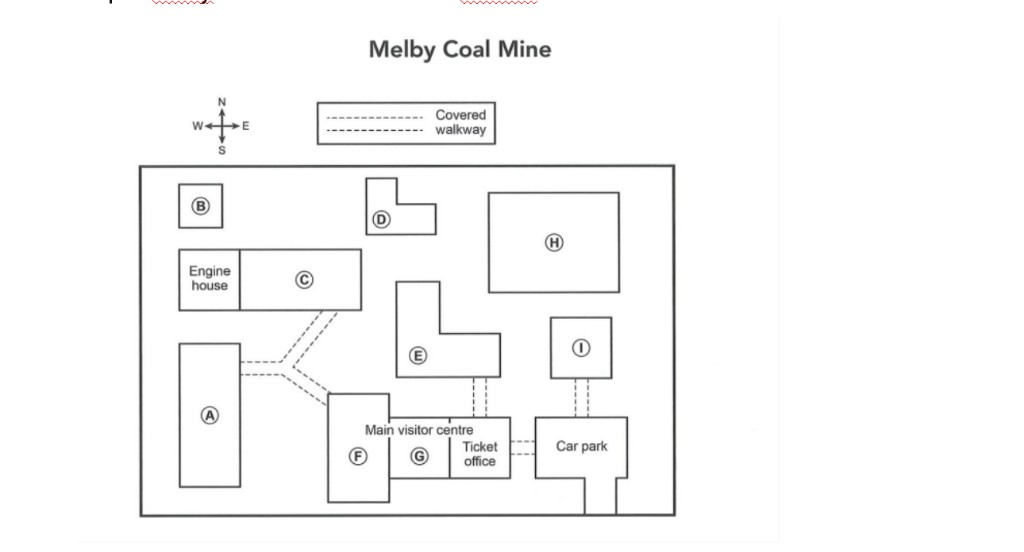
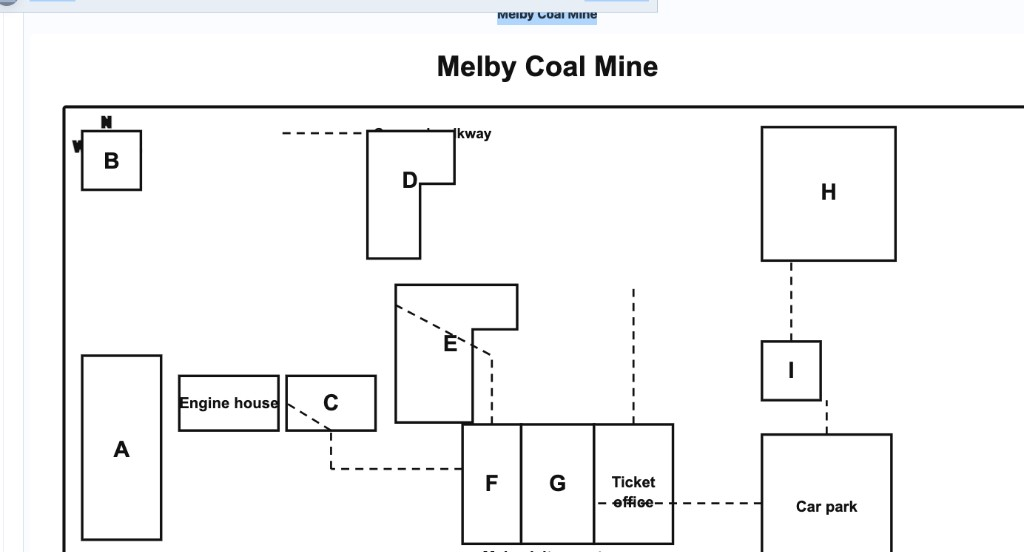
fix(cambridge-21): deploy listening corrections from teacher review
Use official Melby Coal Mine map PNG, flowchart layout for T2P3, form
blank rendering for T4P1, and bump CONTENT_VER so CDT iframes pick up
the updated mock pages on production.

diff --git a/library/mock/cambridge-listening/cambridge-21-test-4.html b/library/mock/cambridge-listening/cambridge-21-test-4.html
@@ -135,6 +135,14 @@
   .map-wrap { border:1px solid #d8e0ea; border-radius:10px; background:#fafcff; padding:14px 16px; margin-bottom:16px; text-align:center; }
   .map-img { max-width:100%; height:auto; border-radius:8px; }
   .map-missing { color:#8a6d1b; background:#fff7e0; border:1px dashed #e0c879; border-radius:8px; padding:18px; font-size:14px; }
+  .flowchart { max-width:440px; margin:0 auto 14px; }
+  .fc-title { font-weight:700; text-align:center; margin:0 0 14px; font-size:16px; color:#223; }
+  .fc-step { display:flex; flex-direction:column; align-items:center; }
+  .fc-box { border:1.5px solid #223; border-radius:2px; padding:12px 16px 10px; width:100%; text-align:center; background:#fff; }
+  .fc-label { font-weight:700; margin-bottom:6px; font-size:15px; }
+  .fc-gap { justify-content:center; margin:0; gap:8px; }
+  .fc-gap .mq-txt { display:none; }
+  .fc-arrow { font-size:18px; line-height:1; margin:2px 0 6px; color:#223; }
 
   .submit-btn { display:block; width:100%; background:linear-gradient(135deg,#1e8449,#27ae60); color:#fff; border:none; padding:16px; font-size:19px; border-radius:12px; cursor:pointer; margin-top:28px; font-weight:700; box-shadow:0 4px 14px rgba(39,174,96,.3); }
   .submit-btn:hover { transform:translateY(-2px); }
@@ -292,7 +300,7 @@ const TEST = {
     "volume": 21,
     "testNo": 4
   },
-  "durationMin": 32,
+  "durationMin": 30,
   "sections": [
     {
       "id": 1,
@@ -315,11 +323,11 @@ const TEST = {
               "html": "used his <Q n=\"2\">"
             },
             {
-              "bullet": true,
-              "html": "has visited the <Q n=\"3\">"
+              "h": "Purpose of today's trip:"
             },
             {
-              "h": "Purpose of today's trip:"
+              "bullet": true,
+              "html": "has visited the <Q n=\"3\">"
             },
             {
               "bullet": true,
@@ -929,7 +937,7 @@ function groupHtml(g){
   if(g.kind==='note'){
     body=`<div class="note-box">${g.noteTitle?`<div class="note-title">${g.noteTitle}</div>`:''}`+
       g.lines.map(l=>{
-        if(l.h) return `<div class="note-h">${l.h}</div>`;
+        if(l.h) return `<div class="note-h">${expandQ(l.h)}</div>`;
         if(l.plain) return `<div class="note-li${l.sub?' sub':''}">${expandQ(l.html)}</div>`;
         if(l.html==null) return '';
         const cls='note-li'+(l.sub2?' sub2':(l.sub?' sub':''));
@@ -951,7 +959,17 @@ function groupHtml(g){
   else if(g.kind==='match'){
     const box=`<div class="match-box"><div class="mb-h">${g.boxTitle}</div>${Object.entries(g.box).map(([k,v])=>`<div class="mb-row"><strong>${k}</strong><span>${v}</span></div>`).join('')}</div>`;
     const sel=`<select id="REP"><option value="">—</option>${Object.keys(g.box).map(k=>`<option value="${k}">${k}</option>`).join('')}</select>`;
-    const qs=`<div style="font-weight:700;margin:6px 0 8px;">${g.subTitle}</div>`+g.questions.map(q=>`<div class="match-q"><span class="qnum-badge">${q.no}</span><span class="mq-txt">${q.q}</span>${sel.replace('REP',q.id)}</div>`).join('');
+    const isFlow=/flowchart/i.test(g.instruction||'');
+    let qs;
+    if(isFlow){
+      const steps=g.questions.map((q,i)=>{
+        const arrow=i<g.questions.length-1?`<div class="fc-arrow">↓</div>`:'';
+        return `<div class="fc-step"><div class="fc-box"><div class="fc-label">${q.q}</div><div class="match-q fc-gap"><span class="qnum-badge">${q.no}</span><span class="mq-txt">${q.q}</span>${sel.replace('REP',q.id)}</div></div>${arrow}</div>`;
+      }).join('');
+      qs=`<div class="flowchart">${g.subTitle?`<div class="fc-title">${g.subTitle}</div>`:''}${steps}</div>`;
+    } else {
+      qs=`<div style="font-weight:700;margin:6px 0 8px;">${g.subTitle}</div>`+g.questions.map(q=>`<div class="match-q"><span class="qnum-badge">${q.no}</span><span class="mq-txt">${q.q}</span>${sel.replace('REP',q.id)}</div>`).join('');
+    }
     body=box+qs;
   }
   else if(g.kind==='multi'){

diff --git a/library/mock/cambridge-listening/cambridge-21-test-2.html b/library/mock/cambridge-listening/cambridge-21-test-2.html
@@ -136,6 +136,14 @@
   .map-img { display:block; width:100%; max-width:920px; height:auto; margin:0 auto; border-radius:8px; cursor:zoom-in; }
   .map-wrap.is-zoom .map-img { cursor:zoom-out; max-width:none; width:min(1400px, 96vw); }
   .map-missing { color:#8a6d1b; background:#fff7e0; border:1px dashed #e0c879; border-radius:8px; padding:18px; font-size:14px; }
+  .flowchart { max-width:440px; margin:0 auto 14px; }
+  .fc-title { font-weight:700; text-align:center; margin:0 0 14px; font-size:16px; color:#223; }
+  .fc-step { display:flex; flex-direction:column; align-items:center; }
+  .fc-box { border:1.5px solid #223; border-radius:2px; padding:12px 16px 10px; width:100%; text-align:center; background:#fff; }
+  .fc-label { font-weight:700; margin-bottom:6px; font-size:15px; }
+  .fc-gap { justify-content:center; margin:0; gap:8px; }
+  .fc-gap .mq-txt { display:none; }
+  .fc-arrow { font-size:18px; line-height:1; margin:2px 0 6px; color:#223; }
 
   .submit-btn { display:block; width:100%; background:linear-gradient(135deg,#1e8449,#27ae60); color:#fff; border:none; padding:16px; font-size:19px; border-radius:12px; cursor:pointer; margin-top:28px; font-weight:700; box-shadow:0 4px 14px rgba(39,174,96,.3); }
   .submit-btn:hover { transform:translateY(-2px); }
@@ -293,7 +301,7 @@ const TEST = {
     "volume": 21,
     "testNo": 2
   },
-  "durationMin": 32,
+  "durationMin": 30,
   "sections": [
     {
       "id": 1,
@@ -501,7 +509,7 @@ const TEST = {
           "title": "Questions 15–20",
           "instruction": "Label the map below.<br>Write the correct letter, A–I, next to Questions 15–20.",
           "mapTitle": "Melby Coal Mine",
-          "image": "cambridge-21-test-2-map.svg",
+          "image": "cambridge-21-test-2-map.png",
           "letters": [
             "A",
             "B",
@@ -939,7 +947,7 @@ function groupHtml(g){
   if(g.kind==='note'){
     body=`<div class="note-box">${g.noteTitle?`<div class="note-title">${g.noteTitle}</div>`:''}`+
       g.lines.map(l=>{
-        if(l.h) return `<div class="note-h">${l.h}</div>`;
+        if(l.h) return `<div class="note-h">${expandQ(l.h)}</div>`;
         if(l.plain) return `<div class="note-li${l.sub?' sub':''}">${expandQ(l.html)}</div>`;
         if(l.html==null) return '';
         const cls='note-li'+(l.sub2?' sub2':(l.sub?' sub':''));
@@ -961,7 +969,17 @@ function groupHtml(g){
   else if(g.kind==='match'){
     const box=`<div class="match-box"><div class="mb-h">${g.boxTitle}</div>${Object.entries(g.box).map(([k,v])=>`<div class="mb-row"><strong>${k}</strong><span>${v}</span></div>`).join('')}</div>`;
     const sel=`<select id="REP"><option value="">—</option>${Object.keys(g.box).map(k=>`<option value="${k}">${k}</option>`).join('')}</select>`;
-    const qs=`<div style="font-weight:700;margin:6px 0 8px;">${g.subTitle}</div>`+g.questions.map(q=>`<div class="match-q"><span class="qnum-badge">${q.no}</span><span class="mq-txt">${q.q}</span>${sel.replace('REP',q.id)}</div>`).join('');
+    const isFlow=/flowchart/i.test(g.instruction||'');
+    let qs;
+    if(isFlow){
+      const steps=g.questions.map((q,i)=>{
+        const arrow=i<g.questions.length-1?`<div class="fc-arrow">↓</div>`:'';
+        return `<div class="fc-step"><div class="fc-box"><div class="fc-label">${q.q}</div><div class="match-q fc-gap"><span class="qnum-badge">${q.no}</span><span class="mq-txt">${q.q}</span>${sel.replace('REP',q.id)}</div></div>${arrow}</div>`;
+      }).join('');
+      qs=`<div class="flowchart">${g.subTitle?`<div class="fc-title">${g.subTitle}</div>`:''}${steps}</div>`;
+    } else {
+      qs=`<div style="font-weight:700;margin:6px 0 8px;">${g.subTitle}</div>`+g.questions.map(q=>`<div class="match-q"><span class="qnum-badge">${q.no}</span><span class="mq-txt">${q.q}</span>${sel.replace('REP',q.id)}</div>`).join('');
+    }
     body=box+qs;
   }
   else if(g.kind==='multi'){

diff --git a/library/mock/cambridge-listening/cambridge-21-test-1.html b/library/mock/cambridge-listening/cambridge-21-test-1.html
@@ -133,6 +133,14 @@
   .map-wrap { border:1px solid #d8e0ea; border-radius:10px; background:#fafcff; padding:14px 16px; margin-bottom:16px; text-align:center; }
   .map-img { max-width:100%; height:auto; border-radius:8px; }
   .map-missing { color:#8a6d1b; background:#fff7e0; border:1px dashed #e0c879; border-radius:8px; padding:18px; font-size:14px; }
+  .flowchart { max-width:440px; margin:0 auto 14px; }
+  .fc-title { font-weight:700; text-align:center; margin:0 0 14px; font-size:16px; color:#223; }
+  .fc-step { display:flex; flex-direction:column; align-items:center; }
+  .fc-box { border:1.5px solid #223; border-radius:2px; padding:12px 16px 10px; width:100%; text-align:center; background:#fff; }
+  .fc-label { font-weight:700; margin-bottom:6px; font-size:15px; }
+  .fc-gap { justify-content:center; margin:0; gap:8px; }
+  .fc-gap .mq-txt { display:none; }
+  .fc-arrow { font-size:18px; line-height:1; margin:2px 0 6px; color:#223; }
 
   .submit-btn { display:block; width:100%; background:linear-gradient(135deg,#1e8449,#27ae60); color:#fff; border:none; padding:16px; font-size:19px; border-radius:12px; cursor:pointer; margin-top:28px; font-weight:700; box-shadow:0 4px 14px rgba(39,174,96,.3); }
   .submit-btn:hover { transform:translateY(-2px); }
@@ -290,7 +298,7 @@ const TEST = {
     "volume": 21,
     "testNo": 1
   },
-  "durationMin": 32,
+  "durationMin": 30,
   "sections": [
     {
       "id": 1,
@@ -973,7 +981,7 @@ function groupHtml(g){
   if(g.kind==='note'){
     body=`<div class="note-box">${g.noteTitle?`<div class="note-title">${g.noteTitle}</div>`:''}`+
       g.lines.map(l=>{
-        if(l.h) return `<div class="note-h">${l.h}</div>`;
+        if(l.h) return `<div class="note-h">${expandQ(l.h)}</div>`;
         if(l.plain) return `<div class="note-li${l.sub?' sub':''}">${expandQ(l.html)}</div>`;
         if(l.html==null) return '';
         const cls='note-li'+(l.sub2?' sub2':(l.sub?' sub':''));
@@ -995,7 +1003,17 @@ function groupHtml(g){
   else if(g.kind==='match'){
     const box=`<div class="match-box"><div class="mb-h">${g.boxTitle}</div>${Object.entries(g.box).map(([k,v])=>`<div class="mb-row"><strong>${k}</strong><span>${v}</span></div>`).join('')}</div>`;
     const sel=`<select id="REP"><option value="">—</option>${Object.keys(g.box).map(k=>`<option value="${k}">${k}</option>`).join('')}</select>`;
-    const qs=`<div style="font-weight:700;margin:6px 0 8px;">${g.subTitle}</div>`+g.questions.map(q=>`<div class="match-q"><span class="qnum-badge">${q.no}</span><span class="mq-txt">${q.q}</span>${sel.replace('REP',q.id)}</div>`).join('');
+    const isFlow=/flowchart/i.test(g.instruction||'');
+    let qs;
+    if(isFlow){
+      const steps=g.questions.map((q,i)=>{
+        const arrow=i<g.questions.length-1?`<div class="fc-arrow">↓</div>`:'';
+        return `<div class="fc-step"><div class="fc-box"><div class="fc-label">${q.q}</div><div class="match-q fc-gap"><span class="qnum-badge">${q.no}</span><span class="mq-txt">${q.q}</span>${sel.replace('REP',q.id)}</div></div>${arrow}</div>`;
+      }).join('');
+      qs=`<div class="flowchart">${g.subTitle?`<div class="fc-title">${g.subTitle}</div>`:''}${steps}</div>`;
+    } else {
+      qs=`<div style="font-weight:700;margin:6px 0 8px;">${g.subTitle}</div>`+g.questions.map(q=>`<div class="match-q"><span class="qnum-badge">${q.no}</span><span class="mq-txt">${q.q}</span>${sel.replace('REP',q.id)}</div>`).join('');
+    }
     body=box+qs;
   }
   else if(g.kind==='multi'){

diff --git a/library/mock/cambridge-listening/cambridge-21-test-3.html b/library/mock/cambridge-listening/cambridge-21-test-3.html
@@ -135,6 +135,14 @@
   .map-wrap { border:1px solid #d8e0ea; border-radius:10px; background:#fafcff; padding:14px 16px; margin-bottom:16px; text-align:center; }
   .map-img { max-width:100%; height:auto; border-radius:8px; }
   .map-missing { color:#8a6d1b; background:#fff7e0; border:1px dashed #e0c879; border-radius:8px; padding:18px; font-size:14px; }
+  .flowchart { max-width:440px; margin:0 auto 14px; }
+  .fc-title { font-weight:700; text-align:center; margin:0 0 14px; font-size:16px; color:#223; }
+  .fc-step { display:flex; flex-direction:column; align-items:center; }
+  .fc-box { border:1.5px solid #223; border-radius:2px; padding:12px 16px 10px; width:100%; text-align:center; background:#fff; }
+  .fc-label { font-weight:700; margin-bottom:6px; font-size:15px; }
+  .fc-gap { justify-content:center; margin:0; gap:8px; }
+  .fc-gap .mq-txt { display:none; }
+  .fc-arrow { font-size:18px; line-height:1; margin:2px 0 6px; color:#223; }
 
   .submit-btn { display:block; width:100%; background:linear-gradient(135deg,#1e8449,#27ae60); color:#fff; border:none; padding:16px; font-size:19px; border-radius:12px; cursor:pointer; margin-top:28px; font-weight:700; box-shadow:0 4px 14px rgba(39,174,96,.3); }
   .submit-btn:hover { transform:translateY(-2px); }
@@ -292,7 +300,7 @@ const TEST = {
     "volume": 21,
     "testNo": 3
   },
-  "durationMin": 32,
+  "durationMin": 30,
   "sections": [
     {
       "id": 1,
@@ -970,7 +978,7 @@ function groupHtml(g){
   if(g.kind==='note'){
     body=`<div class="note-box">${g.noteTitle?`<div class="note-title">${g.noteTitle}</div>`:''}`+
       g.lines.map(l=>{
-        if(l.h) return `<div class="note-h">${l.h}</div>`;
+        if(l.h) return `<div class="note-h">${expandQ(l.h)}</div>`;
         if(l.plain) return `<div class="note-li${l.sub?' sub':''}">${expandQ(l.html)}</div>`;
         if(l.html==null) return '';
         const cls='note-li'+(l.sub2?' sub2':(l.sub?' sub':''));
@@ -992,7 +1000,17 @@ function groupHtml(g){
   else if(g.kind==='match'){
     const box=`<div class="match-box"><div class="mb-h">${g.boxTitle}</div>${Object.entries(g.box).map(([k,v])=>`<div class="mb-row"><strong>${k}</strong><span>${v}</span></div>`).join('')}</div>`;
     const sel=`<select id="REP"><option value="">—</option>${Object.keys(g.box).map(k=>`<option value="${k}">${k}</option>`).join('')}</select>`;
-    const qs=`<div style="font-weight:700;margin:6px 0 8px;">${g.subTitle}</div>`+g.questions.map(q=>`<div class="match-q"><span class="qnum-badge">${q.no}</span><span class="mq-txt">${q.q}</span>${sel.replace('REP',q.id)}</div>`).join('');
+    const isFlow=/flowchart/i.test(g.instruction||'');
+    let qs;
+    if(isFlow){
+      const steps=g.questions.map((q,i)=>{
+        const arrow=i<g.questions.length-1?`<div class="fc-arrow">↓</div>`:'';
+        return `<div class="fc-step"><div class="fc-box"><div class="fc-label">${q.q}</div><div class="match-q fc-gap"><span class="qnum-badge">${q.no}</span><span class="mq-txt">${q.q}</span>${sel.replace('REP',q.id)}</div></div>${arrow}</div>`;
+      }).join('');
+      qs=`<div class="flowchart">${g.subTitle?`<div class="fc-title">${g.subTitle}</div>`:''}${steps}</div>`;
+    } else {
+      qs=`<div style="font-weight:700;margin:6px 0 8px;">${g.subTitle}</div>`+g.questions.map(q=>`<div class="match-q"><span class="qnum-badge">${q.no}</span><span class="mq-txt">${q.q}</span>${sel.replace('REP',q.id)}</div>`).join('');
+    }
     body=box+qs;
   }
   else if(g.kind==='multi'){

diff --git a/library/mock/cambridge-listening/cambridge-20-test-1.html b/library/mock/cambridge-listening/cambridge-20-test-1.html
@@ -116,6 +116,14 @@
   .map-wrap { border:1px solid #d8e0ea; border-radius:10px; background:#fafcff; padding:14px 16px; margin-bottom:16px; text-align:center; }
   .map-img { max-width:100%; height:auto; border-radius:8px; }
   .map-missing { color:#8a6d1b; background:#fff7e0; border:1px dashed #e0c879; border-radius:8px; padding:18px; font-size:14px; }
+  .flowchart { max-width:440px; margin:0 auto 14px; }
+  .fc-title { font-weight:700; text-align:center; margin:0 0 14px; font-size:16px; color:#223; }
+  .fc-step { display:flex; flex-direction:column; align-items:center; }
+  .fc-box { border:1.5px solid #223; border-radius:2px; padding:12px 16px 10px; width:100%; text-align:center; background:#fff; }
+  .fc-label { font-weight:700; margin-bottom:6px; font-size:15px; }
+  .fc-gap { justify-content:center; margin:0; gap:8px; }
+  .fc-gap .mq-txt { display:none; }
+  .fc-arrow { font-size:18px; line-height:1; margin:2px 0 6px; color:#223; }
 
   .submit-btn { display:block; width:100%; background:linear-gradient(135deg,#1e8449,#27ae60); color:#fff; border:none; padding:16px; font-size:19px; border-radius:12px; cursor:pointer; margin-top:28px; font-weight:700; box-shadow:0 4px 14px rgba(39,174,96,.3); }
   .submit-btn:hover { transform:translateY(-2px); }
@@ -454,7 +462,7 @@ function groupHtml(g){
   if(g.kind==='note'){
     body=`<div class="note-box">${g.noteTitle?`<div class="note-title">${g.noteTitle}</div>`:''}`+
       g.lines.map(l=>{
-        if(l.h) return `<div class="note-h">${l.h}</div>`;
+        if(l.h) return `<div class="note-h">${expandQ(l.h)}</div>`;
         if(l.plain) return `<div class="note-li${l.sub?' sub':''}">${expandQ(l.html)}</div>`;
         if(l.html==null) return '';
         const cls='note-li'+(l.sub2?' sub2':(l.sub?' sub':''));
@@ -476,7 +484,17 @@ function groupHtml(g){
   else if(g.kind==='match'){
     const box=`<div class="match-box"><div class="mb-h">${g.boxTitle}</div>${Object.entries(g.box).map(([k,v])=>`<div class="mb-row"><strong>${k}</strong><span>${v}</span></div>`).join('')}</div>`;
     const sel=`<select id="REP"><option value="">—</option>${Object.keys(g.box).map(k=>`<option value="${k}">${k}</option>`).join('')}</select>`;
-    const qs=`<div style="font-weight:700;margin:6px 0 8px;">${g.subTitle}</div>`+g.questions.map(q=>`<div class="match-q"><span class="qnum-badge">${q.no}</span><span class="mq-txt">${q.q}</span>${sel.replace('REP',q.id)}</div>`).join('');
+    const isFlow=/flowchart/i.test(g.instruction||'');
+    let qs;
+    if(isFlow){
+      const steps=g.questions.map((q,i)=>{
+        const arrow=i<g.questions.length-1?`<div class="fc-arrow">↓</div>`:'';
+        return `<div class="fc-step"><div class="fc-box"><div class="fc-label">${q.q}</div><div class="match-q fc-gap"><span class="qnum-badge">${q.no}</span><span class="mq-txt">${q.q}</span>${sel.replace('REP',q.id)}</div></div>${arrow}</div>`;
+      }).join('');
+      qs=`<div class="flowchart">${g.subTitle?`<div class="fc-title">${g.subTitle}</div>`:''}${steps}</div>`;
+    } else {
+      qs=`<div style="font-weight:700;margin:6px 0 8px;">${g.subTitle}</div>`+g.questions.map(q=>`<div class="match-q"><span class="qnum-badge">${q.no}</span><span class="mq-txt">${q.q}</span>${sel.replace('REP',q.id)}</div>`).join('');
+    }
     body=box+qs;
   }
   else if(g.kind==='multi'){

diff --git a/exam.html b/exam.html
@@ -239,7 +239,7 @@
   <div class="score-toast-host" id="score-toast-host" aria-live="polite"></div>
 
   <script src="assets/js/auth.js?v=20260812scores304"></script>
-  <script src="assets/js/config.js?v=20260820c21t2p2"></script>
+  <script src="assets/js/config.js?v=20260820c21fix2"></script>
   <script src="assets/js/exam-cdt.js?v=20260805p3scroll3"></script>
   <script src="assets/js/exam.js?v=20260812s5"></script>
 </body>

diff --git a/assets/js/config.js b/assets/js/config.js
@@ -6,7 +6,7 @@ window.YYSD = (function () {
   "use strict";
 
   // Bump when library HTML changes so exam iframe skips stale browser cache.
-  var CONTENT_VER = "20260820c21t2p2";
+  var CONTENT_VER = "20260820c21fix2";
   var WRONG_WORDS_KEY = "yysd:wrong-words";
   var SAVED_WORDS_KEY = "yysd:saved-words";
 

diff --git a/scripts/cambridge21_data.py b/scripts/cambridge21_data.py
@@ -369,7 +369,7 @@ _LISTENING = {1: {'meta': {'volume': 21, 'testNo': 1},
                                'instruction': 'Label the map below.<br>Write the correct letter, A–I, next to '
                                               'Questions 15–20.',
                                'mapTitle': 'Melby Coal Mine',
-                               'image': 'cambridge-21-test-2-map.svg',
+                               'image': 'cambridge-21-test-2-map.png',
                                'letters': ['A', 'B', 'C', 'D', 'E', 'F', 'G', 'H', 'I'],
                                'questions': [{'id': 'L15',
                                               'no': 15,
@@ -789,8 +789,8 @@ _LISTENING = {1: {'meta': {'volume': 21, 'testNo': 1},
                                'lines': [{'h': 'Name: Martyn <Q n="1">'},
                                          {'h': "Today's journey to Broadbeach town centre:"},
                                          {'bullet': True, 'html': 'used his <Q n="2">'},
-                                         {'bullet': True, 'html': 'has visited the <Q n="3">'},
                                          {'h': "Purpose of today's trip:"},
+                                         {'bullet': True, 'html': 'has visited the <Q n="3">'},
                                          {'bullet': True, 'html': 'looking for a new <Q n="4">'},
                                          {'bullet': True, 'html': 'collecting <Q n="5"> (after repair)'},
                                          {'h': 'Preferred day for shopping: <Q n="6">'},
